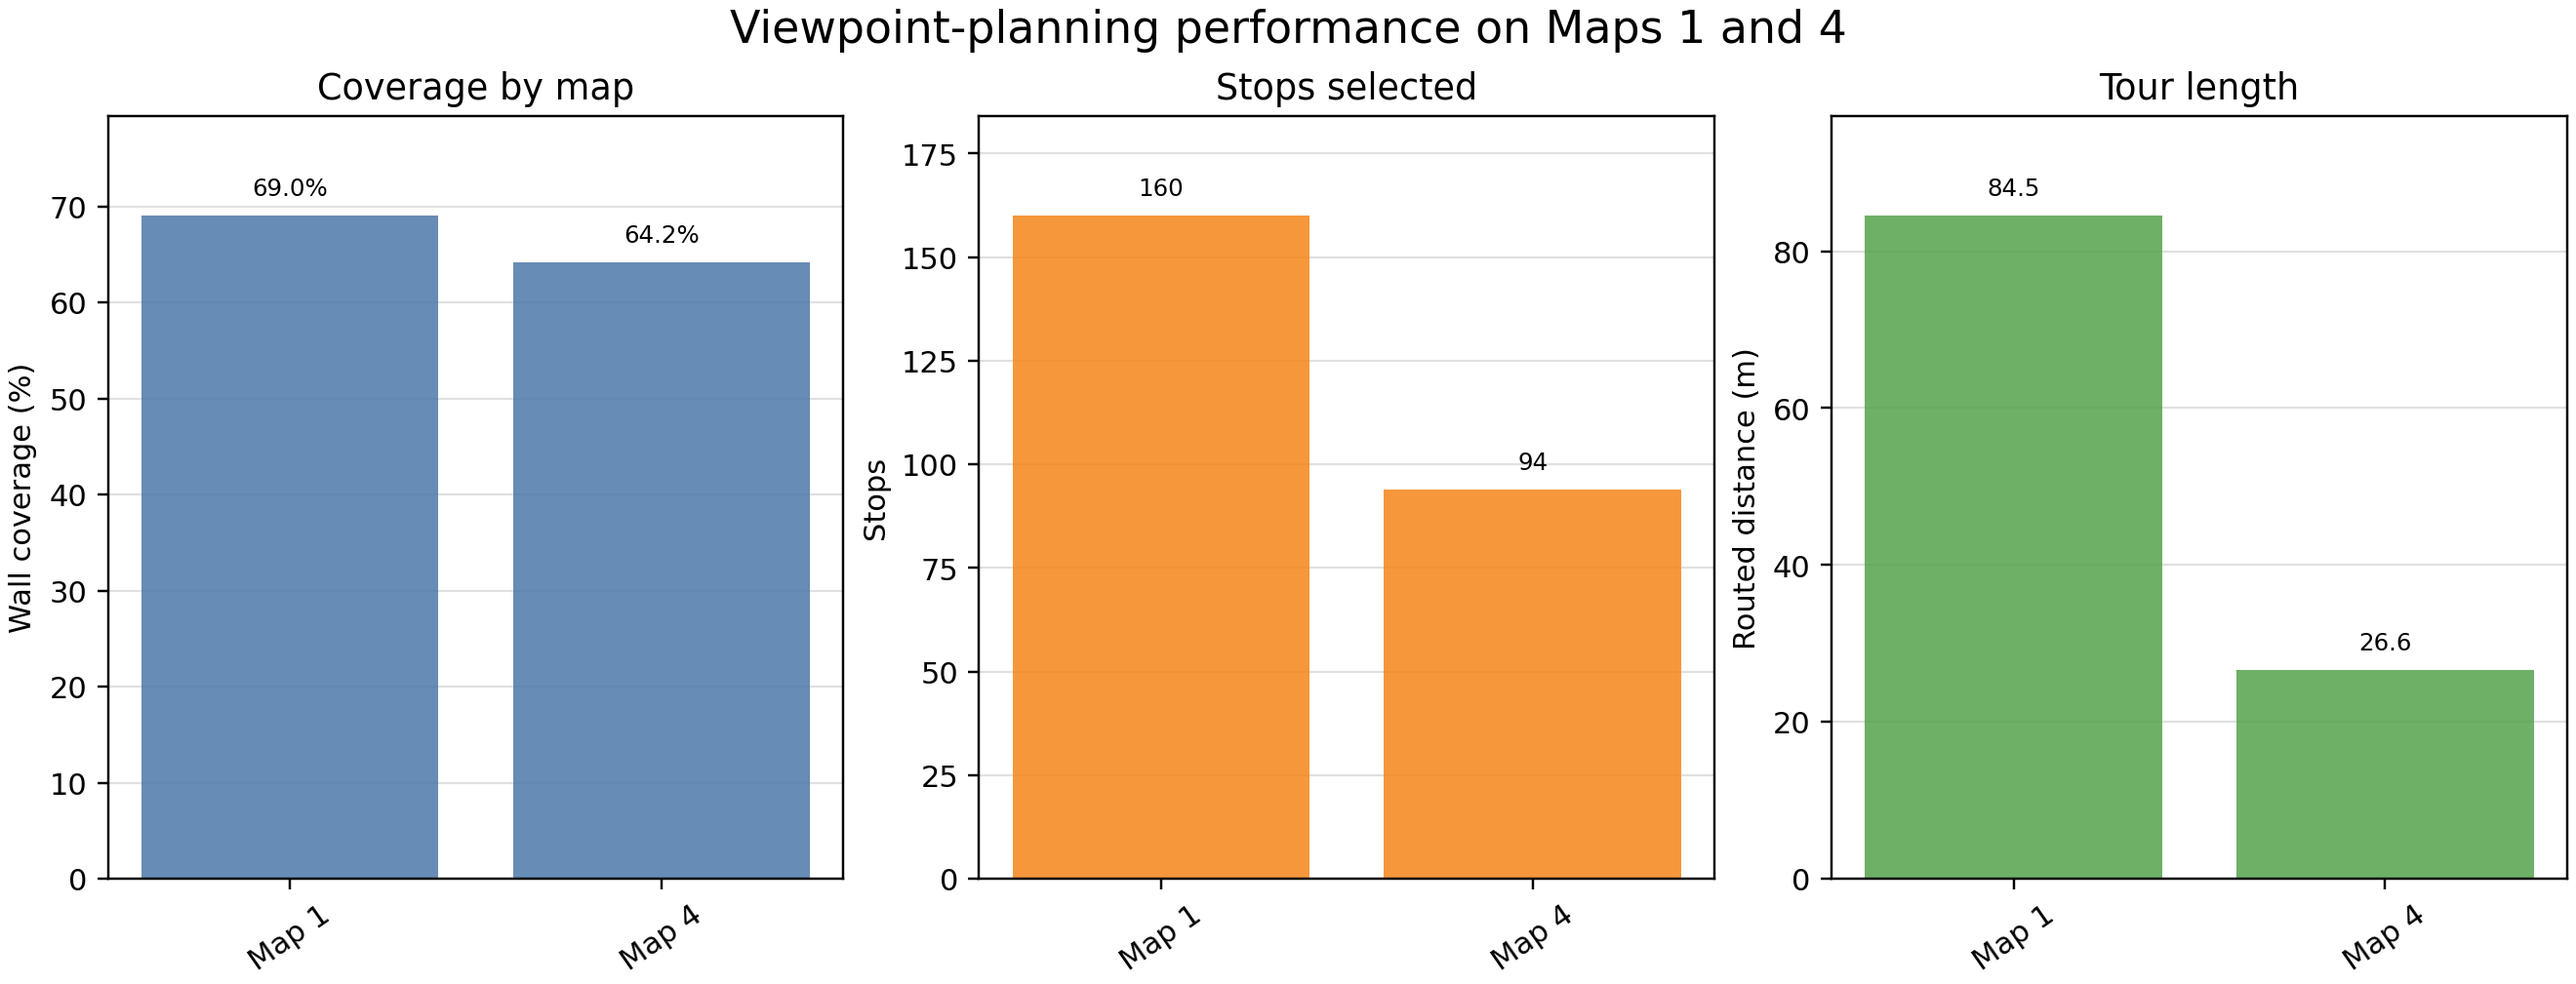
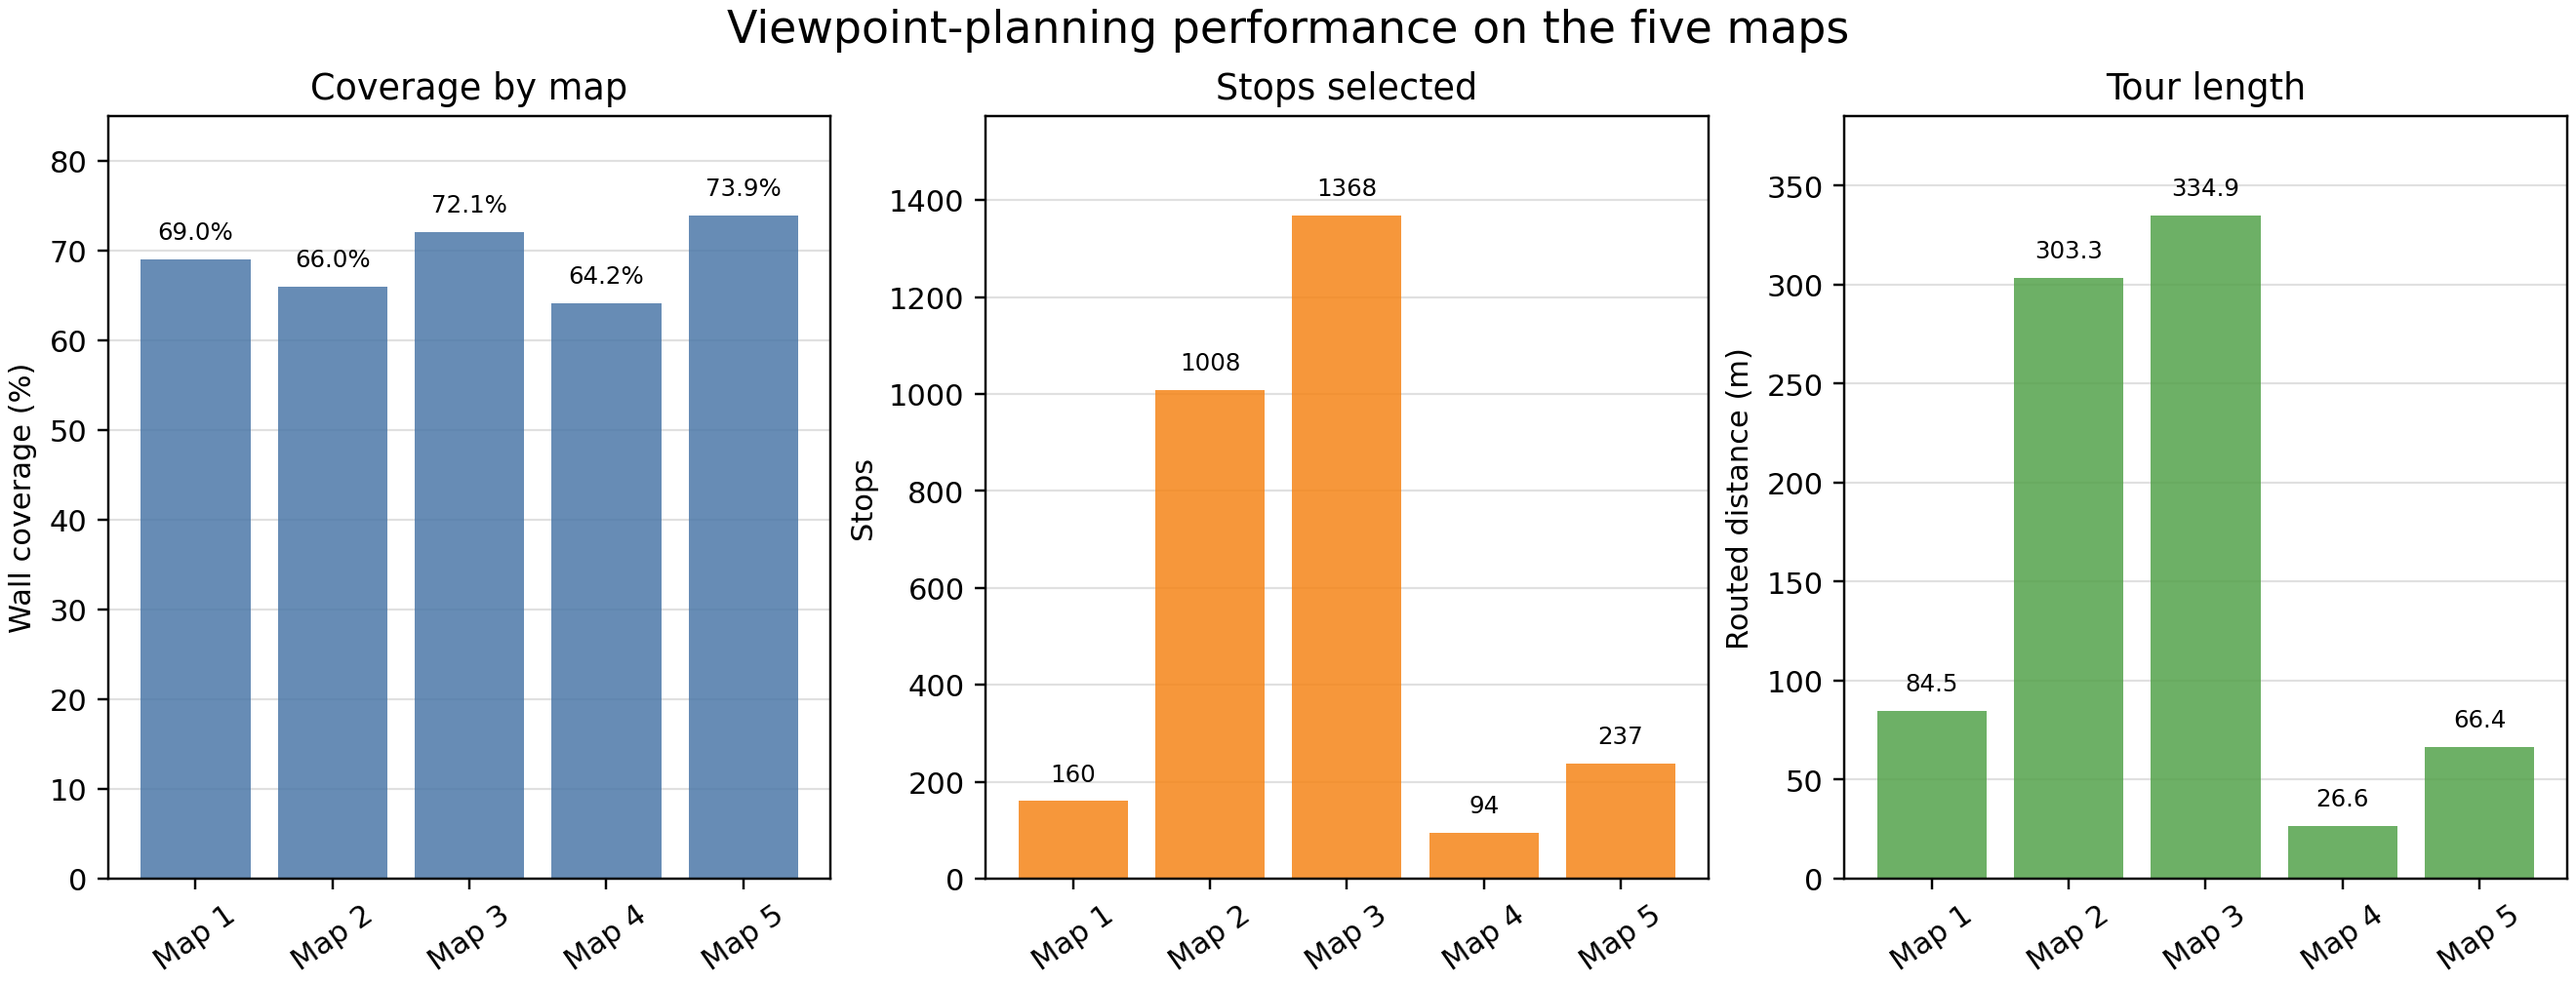
finish

diff --git a/summarize_indoor_batch.py b/summarize_indoor_batch.py
@@ -13,8 +13,6 @@ from __future__ import annotations
 import argparse
 import csv
 import re
-import statistics
-from collections import defaultdict
 from pathlib import Path
 
 import matplotlib.pyplot as plt
@@ -84,104 +82,14 @@ def read_reports(input_dir: Path) -> list[dict]:
     return rows
 
 
-def mean(values: list[float]) -> float:
-    return statistics.fmean(values) if values else float("nan")
-
-
-def stdev(values: list[float]) -> float:
-    return statistics.stdev(values) if len(values) > 1 else 0.0
-
-
 def write_csv(rows: list[dict], output_dir: Path) -> None:
     fieldnames = list(rows[0])
     with (output_dir / "trial_metrics.csv").open("w", newline="") as output_file:
-        writer = csv.DictWriter(output_file, fieldnames=fieldnames)
+        writer = csv.DictWriter(
+            output_file, fieldnames=fieldnames, lineterminator="\n"
+        )
         writer.writeheader()
         writer.writerows(rows)
-
-
-def write_markdown(rows: list[dict], output_dir: Path) -> None:
-    by_map: dict[int, list[dict]] = defaultdict(list)
-    for row in rows:
-        by_map[row["map_id"]].append(row)
-
-    stable_rows = [row for row in rows if row["large_map_correction_count"] == 0]
-    success_count = sum(row["success"] for row in rows)
-    coverage_pass_count = sum(row["coverage_fraction"] >= 0.8 for row in rows)
-    home_pass_count = sum(row["distance_to_home_m"] <= 0.3 for row in rows)
-    timeout_count = sum(row["timed_out"] for row in rows)
-    corrected_count = sum(row["large_map_correction_count"] > 0 for row in rows)
-
-    lines = [
-        "# Indoor Batch Summary",
-        "",
-        f"Completed reports: **{len(rows)}** across **{len(by_map)}** maps.",
-        "",
-        "| Metric | Result |",
-        "|---|---:|",
-        f"| Successful runs (coverage ≥80% and home ≤0.3 m) | {success_count}/{len(rows)} ({success_count / len(rows):.1%}) |",
-        f"| Coverage threshold reached | {coverage_pass_count}/{len(rows)} ({coverage_pass_count / len(rows):.1%}) |",
-        f"| Return-home threshold reached | {home_pass_count}/{len(rows)} ({home_pass_count / len(rows):.1%}) |",
-        f"| Timed out | {timeout_count}/{len(rows)} ({timeout_count / len(rows):.1%}) |",
-        f"| Runs with no large SLAM correction observed in `console.log` | {len(rows) - corrected_count}/{len(rows)} ({(len(rows) - corrected_count) / len(rows):.1%}) |",
-        f"| Mean coverage | {mean([r['coverage_fraction'] for r in rows]):.1%} ± {stdev([r['coverage_fraction'] for r in rows]):.1%} |",
-        f"| Mean distance to home | {mean([r['distance_to_home_m'] for r in rows]):.2f} m |",
-        f"| Mean simulated elapsed time | {mean([r['elapsed_time_s'] for r in rows]):.1f} s |",
-        f"| Mean collisions | {mean([r['collision_count'] for r in rows]):.1f} |",
-        "",
-        "## All sessions vs. no-large-correction subset",
-        "",
-        "Each plot below contains one marker per completed indoor trial. The subset excludes a run only when its "
-        "`console.log` contains a large `map -> odom` correction message; this is a localization-instability "
-        "signal, not a definitive map-corruption label.",
-        "",
-        "| Group | Runs | Success | Coverage threshold | Return-home threshold | Mean coverage | Mean home distance |",
-        "|---|---:|---:|---:|---:|---:|---:|",
-        (
-            f"| All indoor trials | {len(rows)} | {success_count}/{len(rows)} ({success_count / len(rows):.1%}) | "
-            f"{coverage_pass_count}/{len(rows)} ({coverage_pass_count / len(rows):.1%}) | "
-            f"{home_pass_count}/{len(rows)} ({home_pass_count / len(rows):.1%}) | "
-            f"{mean([r['coverage_fraction'] for r in rows]):.1%} | "
-            f"{mean([r['distance_to_home_m'] for r in rows]):.2f} m |"
-        ),
-        (
-            f"| No large SLAM correction observed | {len(stable_rows)} | "
-            f"{sum(r['success'] for r in stable_rows)}/{len(stable_rows)} "
-            f"({sum(r['success'] for r in stable_rows) / len(stable_rows):.1%}) | "
-            f"{sum(r['coverage_fraction'] >= 0.8 for r in stable_rows)}/{len(stable_rows)} "
-            f"({sum(r['coverage_fraction'] >= 0.8 for r in stable_rows) / len(stable_rows):.1%}) | "
-            f"{sum(r['distance_to_home_m'] <= 0.3 for r in stable_rows)}/{len(stable_rows)} "
-            f"({sum(r['distance_to_home_m'] <= 0.3 for r in stable_rows) / len(stable_rows):.1%}) | "
-            f"{mean([r['coverage_fraction'] for r in stable_rows]):.1%} | "
-            f"{mean([r['distance_to_home_m'] for r in stable_rows]):.2f} m |"
-        ),
-        "",
-        "## Per-map results",
-        "",
-        "| Map | Runs | Success | Mean coverage | Mean home distance | Mean sim time |",
-        "|---:|---:|---:|---:|---:|---:|",
-    ]
-    for map_id in sorted(by_map):
-        trials = by_map[map_id]
-        lines.append(
-            f"| {map_id} | {len(trials)} | {sum(r['success'] for r in trials)}/{len(trials)} | "
-            f"{mean([r['coverage_fraction'] for r in trials]):.1%} | "
-            f"{mean([r['distance_to_home_m'] for r in trials]):.2f} m | "
-            f"{mean([r['elapsed_time_s'] for r in trials]):.1f} s |"
-        )
-    lines.extend(
-        [
-            "",
-            "## Generated figures",
-            "",
-            "- `all_indoor_sessions.png` — one marker per completed indoor trial, with the coverage and return-home success region shown.",
-            "- `indoor_sessions_no_large_slam_correction.png` — the same per-trial plot restricted to the no-large-correction subset.",
-            "",
-            "A logged large SLAM correction is an observable localization-instability signal, not proof that a final map is corrupted. "
-            "The `no large correction observed` group is the appropriate comparison group for your write-up.",
-        ]
-    )
-    (output_dir / "summary.md").write_text("\n".join(lines) + "\n")
 
 
 OUTCOME_ORDER = [
@@ -241,7 +149,7 @@ def save_session_performance_plot(rows: list[dict], title: str, output_path: Pat
 def main() -> None:
     parser = argparse.ArgumentParser(description=__doc__)
     parser.add_argument("--input", type=Path, default=DEFAULT_INPUT, help="Indoor batch directory")
-    parser.add_argument("--output", type=Path, help="Directory for CSV, Markdown, and PNG outputs")
+    parser.add_argument("--output", type=Path, help="Directory for CSV and PNG outputs")
     args = parser.parse_args()
 
     rows = read_reports(args.input)
@@ -251,7 +159,6 @@ def main() -> None:
     output_dir = args.output or args.input / "summary"
     output_dir.mkdir(parents=True, exist_ok=True)
     write_csv(rows, output_dir)
-    write_markdown(rows, output_dir)
     save_session_performance_plot(
         rows,
         f"All indoor exploration sessions (n={len(rows)})",
@@ -263,7 +170,7 @@ def main() -> None:
         f"Indoor sessions with no logged large SLAM correction (n={len(stable_rows)})",
         output_dir / "indoor_sessions_no_large_slam_correction.png",
     )
-    print(f"Summarized {len(rows)} reports into: {output_dir}")
+    print(f"Wrote CSV and figures for {len(rows)} reports into: {output_dir}")
 
 
 if __name__ == "__main__":

diff --git a/summarize_viewpoint_planning.py b/summarize_viewpoint_planning.py
@@ -10,7 +10,6 @@ from __future__ import annotations
 import argparse
 import csv
 import json
-import statistics
 from pathlib import Path
 
 import matplotlib.pyplot as plt
@@ -47,49 +46,11 @@ def read_reports(input_dir: Path) -> list[dict]:
 
 def write_csv(rows: list[dict], output_dir: Path) -> None:
     with (output_dir / "map_metrics.csv").open("w", newline="") as output_file:
-        writer = csv.DictWriter(output_file, fieldnames=list(rows[0]))
+        writer = csv.DictWriter(
+            output_file, fieldnames=list(rows[0]), lineterminator="\n"
+        )
         writer.writeheader()
         writer.writerows(rows)
-
-
-def write_markdown(rows: list[dict], output_dir: Path) -> None:
-    total_covered = sum(row["covered_wall_cells"] for row in rows)
-    total_wall = sum(row["total_wall_cells"] for row in rows)
-    weighted_coverage = total_covered / total_wall if total_wall else 0.0
-    lines = [
-        "# Viewpoint-Planning Summary",
-        "",
-        f"Completed reports: **{len(rows)}** across maps {', '.join(str(row['map_id']) for row in rows)}.",
-        "",
-        "| Aggregate metric | Result |",
-        "|---|---:|",
-        f"| Wall-cell-weighted coverage | {weighted_coverage:.1%} ({total_covered}/{total_wall}) |",
-        f"| Mean coverage by map | {statistics.fmean(row['coverage_fraction'] for row in rows):.1%} |",
-        f"| Mean stops | {statistics.fmean(row['num_stops'] for row in rows):.1f} |",
-        f"| Mean routed tour length | {statistics.fmean(row['tour_length_m'] for row in rows):.2f} m |",
-        f"| Mean planning time | {statistics.fmean(row['planning_time_s'] for row in rows):.2f} s |",
-        f"| Invalid stops | {sum(row['invalid_stop_count'] for row in rows)} |",
-        "",
-        "## Per-map results",
-        "",
-        "| Map | Coverage | Stops | Routed tour length | Planning time | Invalid stops |",
-        "|---:|---:|---:|---:|---:|---:|",
-    ]
-    for row in rows:
-        lines.append(
-            f"| {row['map_id']} | {row['coverage_fraction']:.1%} | {row['num_stops']} | "
-            f"{row['tour_length_m']:.2f} m | {row['planning_time_s']:.2f} s | "
-            f"{row['invalid_stop_count']} |"
-        )
-    lines.extend(
-        [
-            "",
-            "## Generated figure",
-            "",
-            "- `performance_by_map.png` — coverage, stop count, and routed tour length for the current planner on every evaluated map.",
-        ]
-    )
-    (output_dir / "summary.md").write_text("\n".join(lines) + "\n")
 
 
 def save_plot(rows: list[dict], output_dir: Path) -> None:
@@ -140,9 +101,8 @@ def main() -> None:
     output_dir = args.output or args.input / "summary"
     output_dir.mkdir(parents=True, exist_ok=True)
     write_csv(rows, output_dir)
-    write_markdown(rows, output_dir)
     save_plot(rows, output_dir)
-    print(f"Summarized {len(rows)} viewpoint-planning reports into: {output_dir}")
+    print(f"Wrote metrics and figure for {len(rows)} reports into: {output_dir}")
 
 
 if __name__ == "__main__":

diff --git a/write-ups/viewpoint-planning.md b/write-ups/viewpoint-planning.md
@@ -30,9 +30,9 @@ independently. A pixel at or below `free_thresh` is free, a pixel at or above
 `occupied_thresh` is a wall, and a value between them is unknown. This avoids
 the original loose interpretation that treated every non-occupied pixel as
 free, mixing ROS gray unknown cells with valid floor space and potentially
-creating invalid candidate stops. Maps 1 and 4 are black-and-white, so this
-classification does not change their result, but it matters for partially
-known ROS maps containing unknown gray cells.
+creating invalid candidate stops. All five sample maps contain the ROS gray
+unknown value, so this distinction prevents unknown space from entering the
+candidate set in every evaluated map.
 
 ## Design Decisions & Tradeoffs
 
@@ -52,8 +52,8 @@ measurement is accurate enough.
 
 ### Performance
 
-The current planner was evaluated once on Maps 1 and 4 with the fixed 8 m
-range, 0.5 minimum-quality, and 0.2 m robot-radius settings. Every output
+The current planner was evaluated once on all five sample maps with the fixed
+8 m range, 0.5 minimum-quality, and 0.2 m robot-radius settings. Every output
 below is generated from the canonical reports in
 `results/viewpoint_planning/<map>/`; the reported tour lengths are routed
 through footprint-clear free space, not straight-line distances.
@@ -69,18 +69,25 @@ optimum.
 | Map | Coverage | Stops | Routed tour length | Planning time | Invalid stops |
 |---:|---:|---:|---:|---:|---:|
 | 1 | 69.0% | 160 | 84.54 m | 361.32 s | 0 |
+| 2 | 66.0% | 1,008 | 303.33 m | 2,744.01 s | 0 |
+| 3 | 72.1% | 1,368 | 334.93 m | 3,781.82 s | 0 |
 | 4 | 64.2% | 94 | 26.62 m | 55.85 s | 0 |
+| 5 | 73.9% | 237 | 66.44 m | 233.18 s | 0 |
 
-Across the two maps, wall-cell-weighted coverage was 67.5% (10,633 of 15,752
-observable wall cells), with no invalid stops. Map 1 needs more stops and a
-longer route because its room geometry is larger and more segmented than Map
-4.
+Across all five maps, wall-cell-weighted coverage was 68.9% (60,370 of 87,679
+observable wall cells), mean per-map coverage was 69.0%, and none of the 2,867
+stops was invalid. Map 5 achieved the highest coverage at 73.9%, while Map 4
+required the fewest stops and shortest planning time. Maps 2 and 3 required
+1,008 and 1,368 stops and took about 45.7 and 63.0 minutes respectively. These
+results expose the main scalability limitation: the dense candidate set
+creates a large optimization problem, and routed distances are then computed
+between every pair of selected stops.
 
 ![Viewpoint-planning performance by map](../results/viewpoint_planning/summary/performance_by_map.png)
 
-Run `MAP_IDS="1 4" ./run_viewpoint_planning_evaluation.sh` from the repository
-root to recreate these two reports, the summary table, and the figure. The
-Docker image must be built first with
+Run `./run_viewpoint_planning_evaluation.sh` from the repository root to
+recreate the five reports, cross-map CSV, and figure. The Docker image must be
+built first with
 `docker build -t viewpoint-planning viewpoint_planning`.
 
 ### What I'd Do With More Time

diff --git a/viewpoint_planning/README.md b/viewpoint_planning/README.md
@@ -136,5 +136,5 @@ From the repository root, run:
 ```
 
 This writes one report per map to `results/viewpoint_planning/<map>/` and
-creates `results/viewpoint_planning/summary/` with a CSV, Markdown summary,
-and a cross-map figure. Build the Docker image first as shown above.
+creates `results/viewpoint_planning/summary/` with a CSV and cross-map figure.
+Build the Docker image first as shown above.
